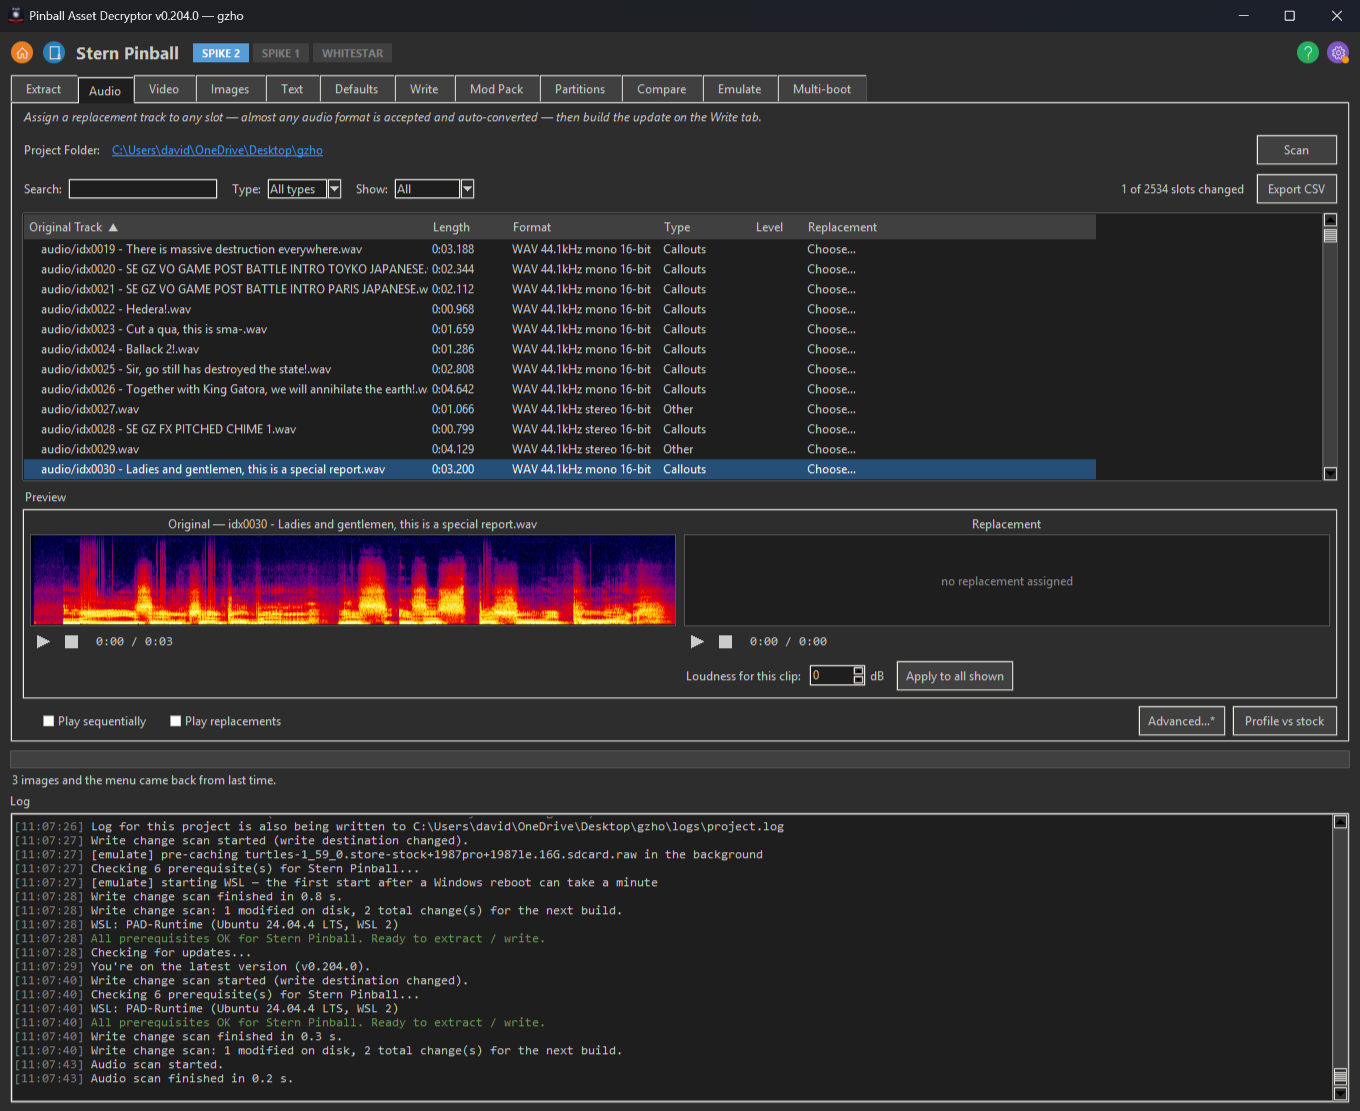
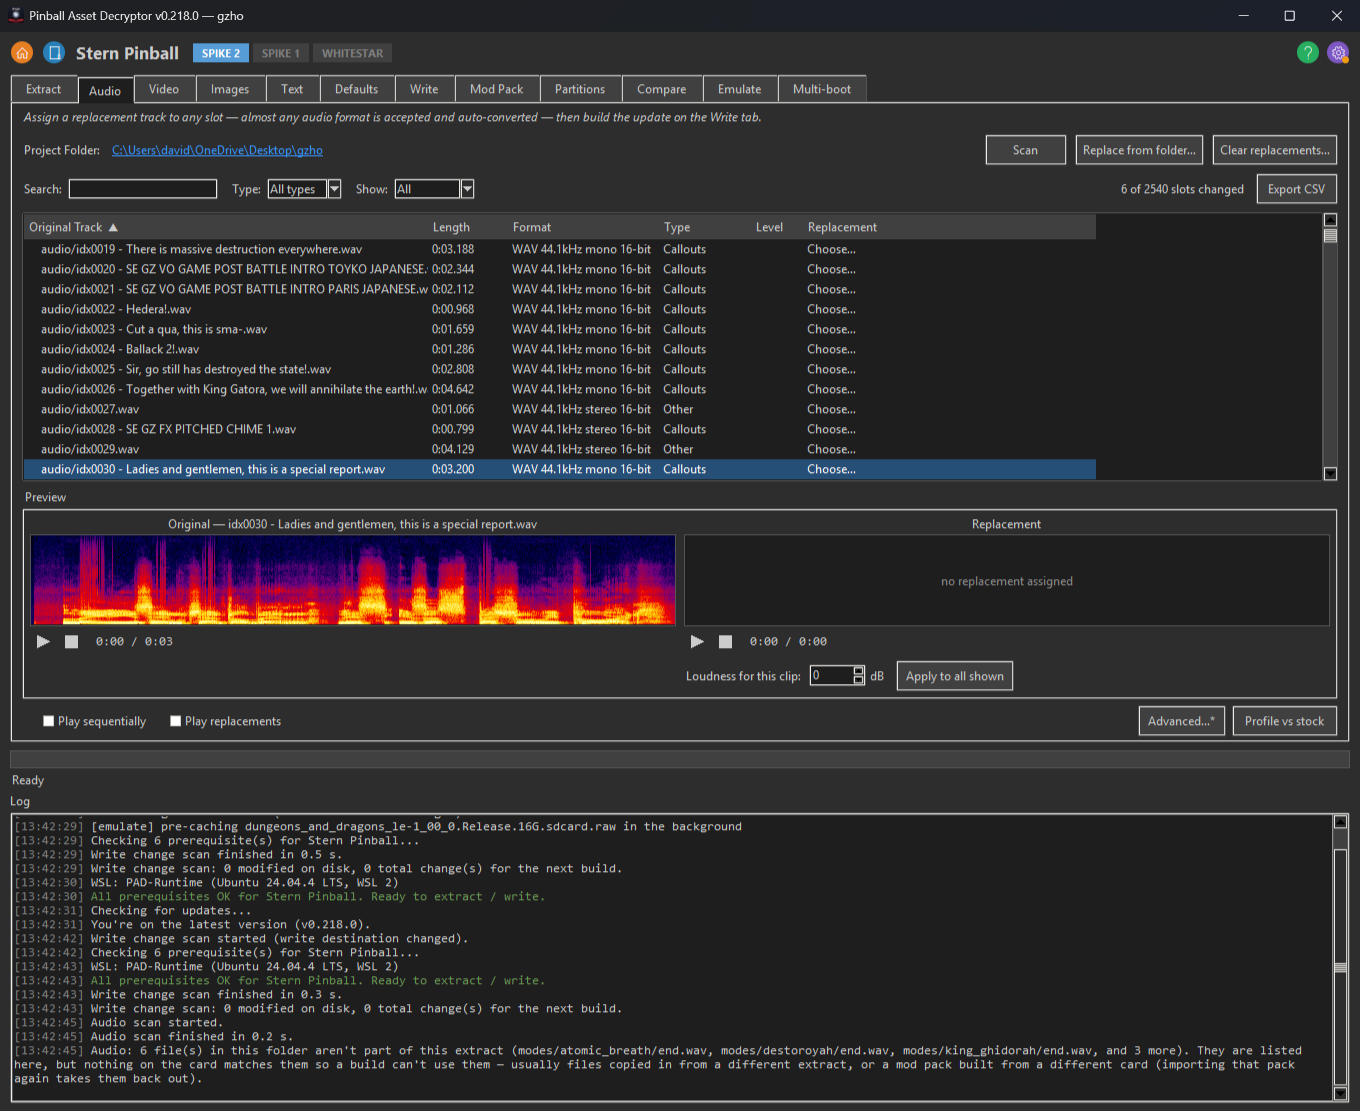
v0.218.0 - A folder of reworked files goes on the card in one action
The Replace Audio, Video and Images tabs get "Replace from folder..."
beside the project folder: choose a folder of your own files and each
one is picked for the slot with its name. The file type and capital
letters do not have to match, so a batch converter that wrote .mp4 for
a card full of .mov clips still pairs with every slot, and each file is
converted to suit its slot at build time like any other pick.
Subfolders are searched too, and a file's own folders settle a name two
slots share. Every pick it makes is an ordinary replacement: it shows
in the Replacement column, the next build applies it, and "Clear
replacements..." drops it again. Anything left out is named in the log.

A file dropped into the project folder by hand under a different file
type used to be reported as a stray from someone else's mod pack. The
row and the scan log now name the card's own file instead and point at
the folder picker; on Windows, where the filesystem ignores letter
case, a name that differs only in case is recognised as the card's file
rather than a stray. Scene pictures and font glyphs carry a fingerprint
of the card they came off in their names, so the text says so and
points at Transfer Mods to New Version, which carries those over by
content.

README and the in-app "?" tips for the three Replace tabs cover the new
button, and the README screenshots are recaptured.

diff --git a/pinball_decryptor/gui/help_dialog.py b/pinball_decryptor/gui/help_dialog.py
@@ -150,6 +150,26 @@ HELP_CONTENT = {
          "Write tab reads. There's no separate \"stage\" step: the "
          "replacements you assign are applied automatically when you build the "
          "update on the Write tab."),
+        ("Replacing a whole folder at once",
+         "\"Replace from folder…\" beside the project folder takes a "
+         "folder of your own files and picks each one for the sound with "
+         "its name, so a whole set reworked outside the app goes in as "
+         "one action instead of one pick per sound.\n\n"
+         "Names pair whatever the file type and whatever the capital "
+         "letters: a converter that wrote .wav for a card full of .ogg still pairs, and each file is converted to suit its slot "
+         "when you build, like any other pick. Subfolders are searched "
+         "too, and a file's own folders help it choose — when two slots "
+         "are named the same, put the file under a folder named like its "
+         "slot's.\n\n"
+         "Keep your files in a folder of their own, OUTSIDE the project "
+         "folder: the project folder holds the card's own files, so "
+         "choosing it, or anything inside it, is refused. What comes back "
+         "is ordinary replacements — they show in the Replacement column, "
+         "the next build applies them, and \"Clear replacements…\" drops "
+         "them again.\n\n"
+         "Whatever it leaves out is named in the log: files named like no "
+         "slot on this tab, files named like more than one of them, and "
+         "files another file in the folder shares a name with."),
         ("Clearing replacements",
          "A replacement you pick is remembered against the PROJECT FOLDER, "
          "not against the card: it is stored in the folder itself, so it "
@@ -307,6 +327,26 @@ HELP_CONTENT = {
          "Write tab reads. There's no separate \"stage\" step: the "
          "replacements you assign are applied automatically when you build the "
          "update on the Write tab."),
+        ("Replacing a whole folder at once",
+         "\"Replace from folder…\" beside the project folder takes a "
+         "folder of your own files and picks each one for the clip with "
+         "its name, so a whole set reworked outside the app goes in as "
+         "one action instead of one pick per clip.\n\n"
+         "Names pair whatever the file type and whatever the capital "
+         "letters: a converter that wrote .mp4 for the card's .mov clips still pairs, and each file is converted to suit its slot "
+         "when you build, like any other pick. Subfolders are searched "
+         "too, and a file's own folders help it choose — when two slots "
+         "are named the same, put the file under a folder named like its "
+         "slot's. A clip that was set to go on as-is and comes back as a different file type is set to be converted instead, because going on as-is needs the slot's own file type.\n\n"
+         "Keep your files in a folder of their own, OUTSIDE the project "
+         "folder: the project folder holds the card's own files, so "
+         "choosing it, or anything inside it, is refused. What comes back "
+         "is ordinary replacements — they show in the Replacement column, "
+         "the next build applies them, and \"Clear replacements…\" drops "
+         "them again.\n\n"
+         "Whatever it leaves out is named in the log: files named like no "
+         "slot on this tab, files named like more than one of them, and "
+         "files another file in the folder shares a name with."),
         ("Clearing replacements",
          "A replacement you pick is remembered against the PROJECT FOLDER, "
          "not against the card: it is stored in the folder itself, so it "
@@ -446,6 +486,26 @@ HELP_CONTENT = {
          "replacement you assign is auto-fit to its slot (scaled, "
          "format-converted, size-matched) and applied automatically when you "
          "build the update on the Write tab."),
+        ("Replacing a whole folder at once",
+         "\"Replace from folder…\" beside the project folder takes a "
+         "folder of your own files and picks each one for the image with "
+         "its name, so a whole set reworked outside the app goes in as "
+         "one action instead of one pick per image.\n\n"
+         "Names pair whatever the file type and whatever the capital "
+         "letters: a batch export that wrote .png over the card's .jpg still pairs, and each file is converted to suit its slot "
+         "when you build, like any other pick. Subfolders are searched "
+         "too, and a file's own folders help it choose — when two slots "
+         "are named the same, put the file under a folder named like its "
+         "slot's. Scene pictures and font glyphs are named with a fingerprint of the card they were extracted from, so copies from another card's extract cannot pair by name at all — \"Transfer Mods to New Version\" on the Mod Pack tab carries those over by content instead.\n\n"
+         "Keep your files in a folder of their own, OUTSIDE the project "
+         "folder: the project folder holds the card's own files, so "
+         "choosing it, or anything inside it, is refused. What comes back "
+         "is ordinary replacements — they show in the Replacement column, "
+         "the next build applies them, and \"Clear replacements…\" drops "
+         "them again.\n\n"
+         "Whatever it leaves out is named in the log: files named like no "
+         "slot on this tab, files named like more than one of them, and "
+         "files another file in the folder shares a name with."),
         ("Clearing replacements",
          "A replacement you pick is remembered against the PROJECT FOLDER, "
          "not against the card: it is stored in the folder itself, so it "

diff --git a/pinball_decryptor/__init__.py b/pinball_decryptor/__init__.py
@@ -1,3 +1,3 @@
 """Pinball Asset Decryptor — unified decryptor for multiple pinball makers."""
 
-__version__ = "0.217.5"
+__version__ = "0.218.0"

diff --git a/README.md b/README.md
@@ -22,9 +22,9 @@ Pick a manufacturer on launch — each card lists every supported game:
 ![The manufacturer picker: one card per manufacturer with its supported games and input formats](docs/screenshots/picker.png)
 
 Point the Extract tab at a card image (or the SD card itself) and pull
-the assets out — here a Stern Godzilla Pro card:
+the assets out — here a Stern Godzilla LE card:
 
-![The Extract tab with a Stern Godzilla Pro SD-card image detected and per-type extract checkboxes](docs/screenshots/stern-extract.png)
+![The Extract tab with a Stern Godzilla LE SD-card image detected and per-type extract checkboxes](docs/screenshots/stern-extract.png)
 
 Replace Audio lists every sound slot with side-by-side seekable
 spectrograms to A/B the original against your replacement; Replace
@@ -39,8 +39,8 @@ the card is untouched. It is off by default — proven in the PC emulator,
 but no machine has booted a card built that way yet.
 
 <p>
-  <a href="docs/screenshots/replace-audio.png"><img src="docs/screenshots/replace-audio.png" width="49%" alt="The Replace Audio tab: 2,534 sound slots from a Godzilla Pro card with a spectrogram preview of the selected sound"></a>
-  <a href="docs/screenshots/replace-images.png"><img src="docs/screenshots/replace-images.png" width="49%" alt="The Replace Images tab: searching 5,877 on-card images for 'logo' with a preview of the game-logo art"></a>
+  <a href="docs/screenshots/replace-audio.png"><img src="docs/screenshots/replace-audio.png" width="49%" alt="The Replace Audio tab: 2,540 sound slots from a Godzilla LE card with a spectrogram preview of the selected sound"></a>
+  <a href="docs/screenshots/replace-images.png"><img src="docs/screenshots/replace-images.png" width="49%" alt="The Replace Images tab: searching 5,809 on-card images for 'logo' with a preview of the game-logo art"></a>
 </p>
 
 And the Partition Explorer browses the raw card image's ext4 filesystem
@@ -49,7 +49,7 @@ alongside text files, tracking which files you've replaced on that image
 in a **Changed** column, and right-click **Replace with…** swaps any file
 on the card for one of your own, at any size:
 
-![The Partition Explorer tab browsing the 6.4 GB game partition of a Godzilla Pro card image](docs/screenshots/partition-explorer.png)
+![The Partition Explorer tab browsing the 6.4 GB game partition of a Godzilla LE card image](docs/screenshots/partition-explorer.png)
 
 The Multi-boot tab builds one SD card that carries several complete Spike 2
 game images — stock code beside a custom build — and shows a menu at
@@ -934,8 +934,9 @@ on Windows / [launch.vbs](launch.vbs) for a no-console launch.
    slot changed some other way (copied over by hand, or built before the
    app kept a saved original) keeps its bytes, which is what
    *Revert all changes…* is for.
-   A whole set reworked outside the app (every clip made black and white,
-   say) goes in the same way with **Replace from folder…**, beside it:
+   From v0.218.0 a whole set reworked outside the app (every clip made
+   black and white, say) goes in the same way with
+   **Replace from folder…**, beside it:
    choose the folder holding your files and each one is picked for the
    slot with its name. The file type and capital letters don't have to
    match — a converter that writes `.mp4` for everything still fills the
